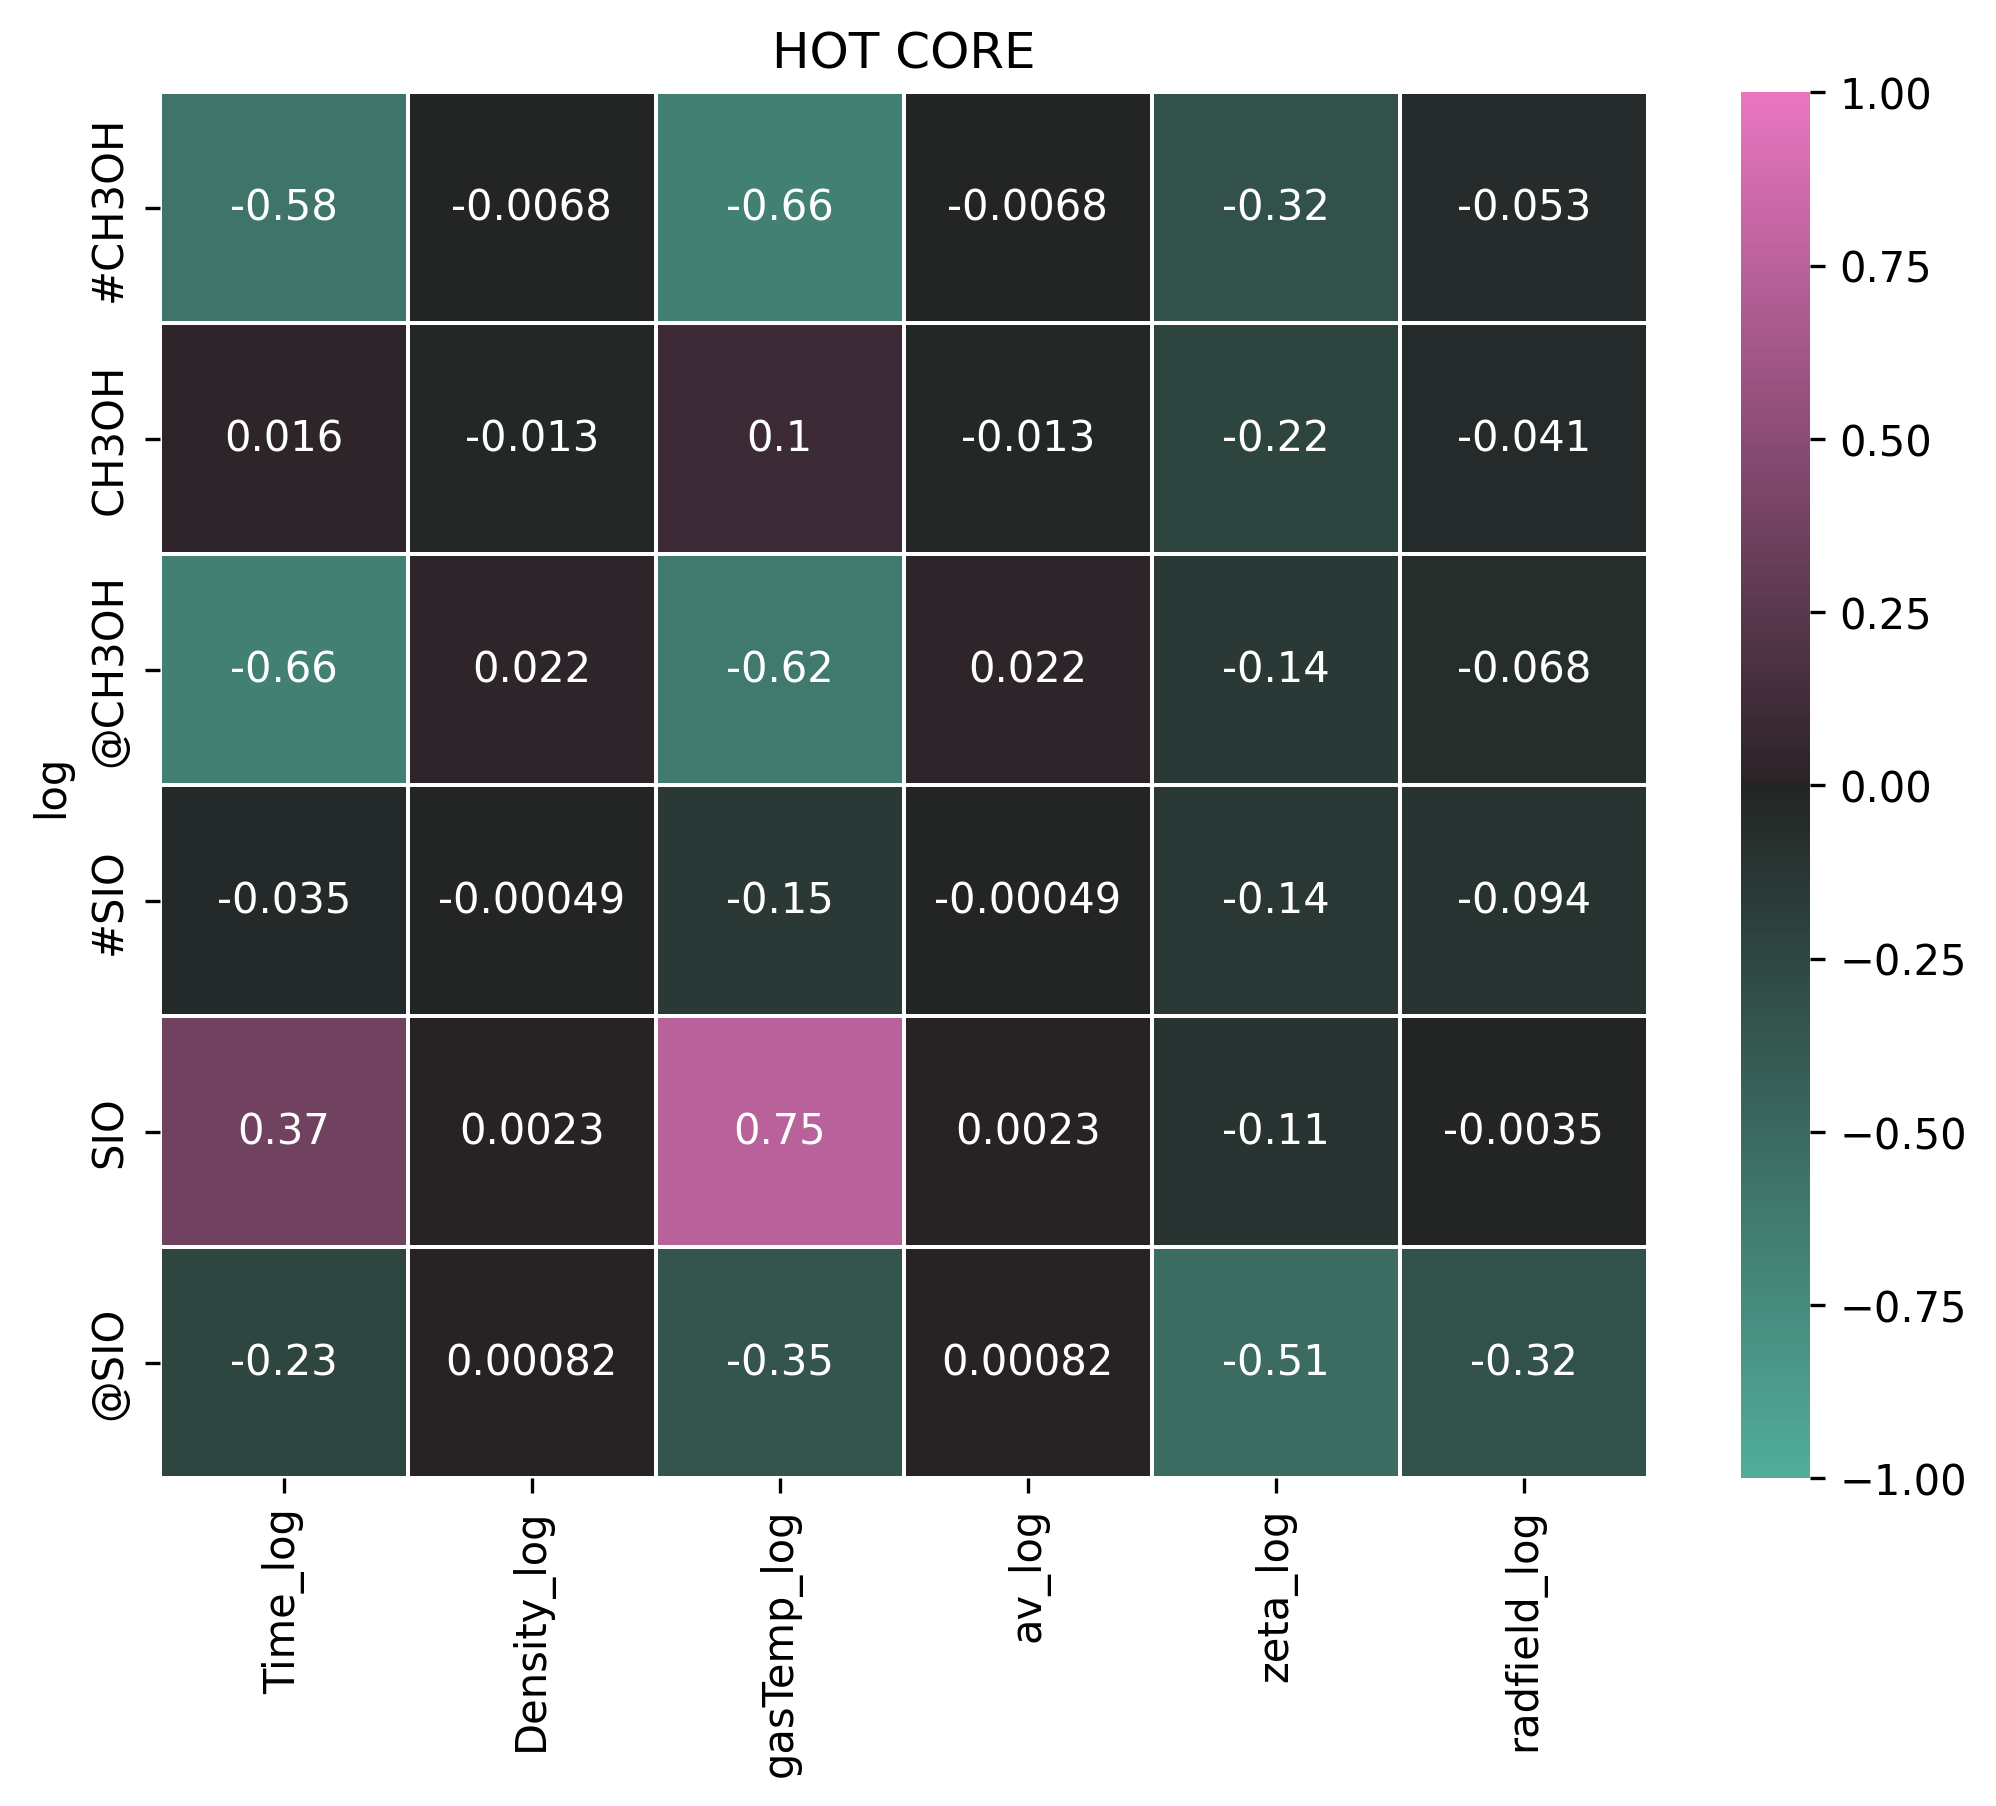
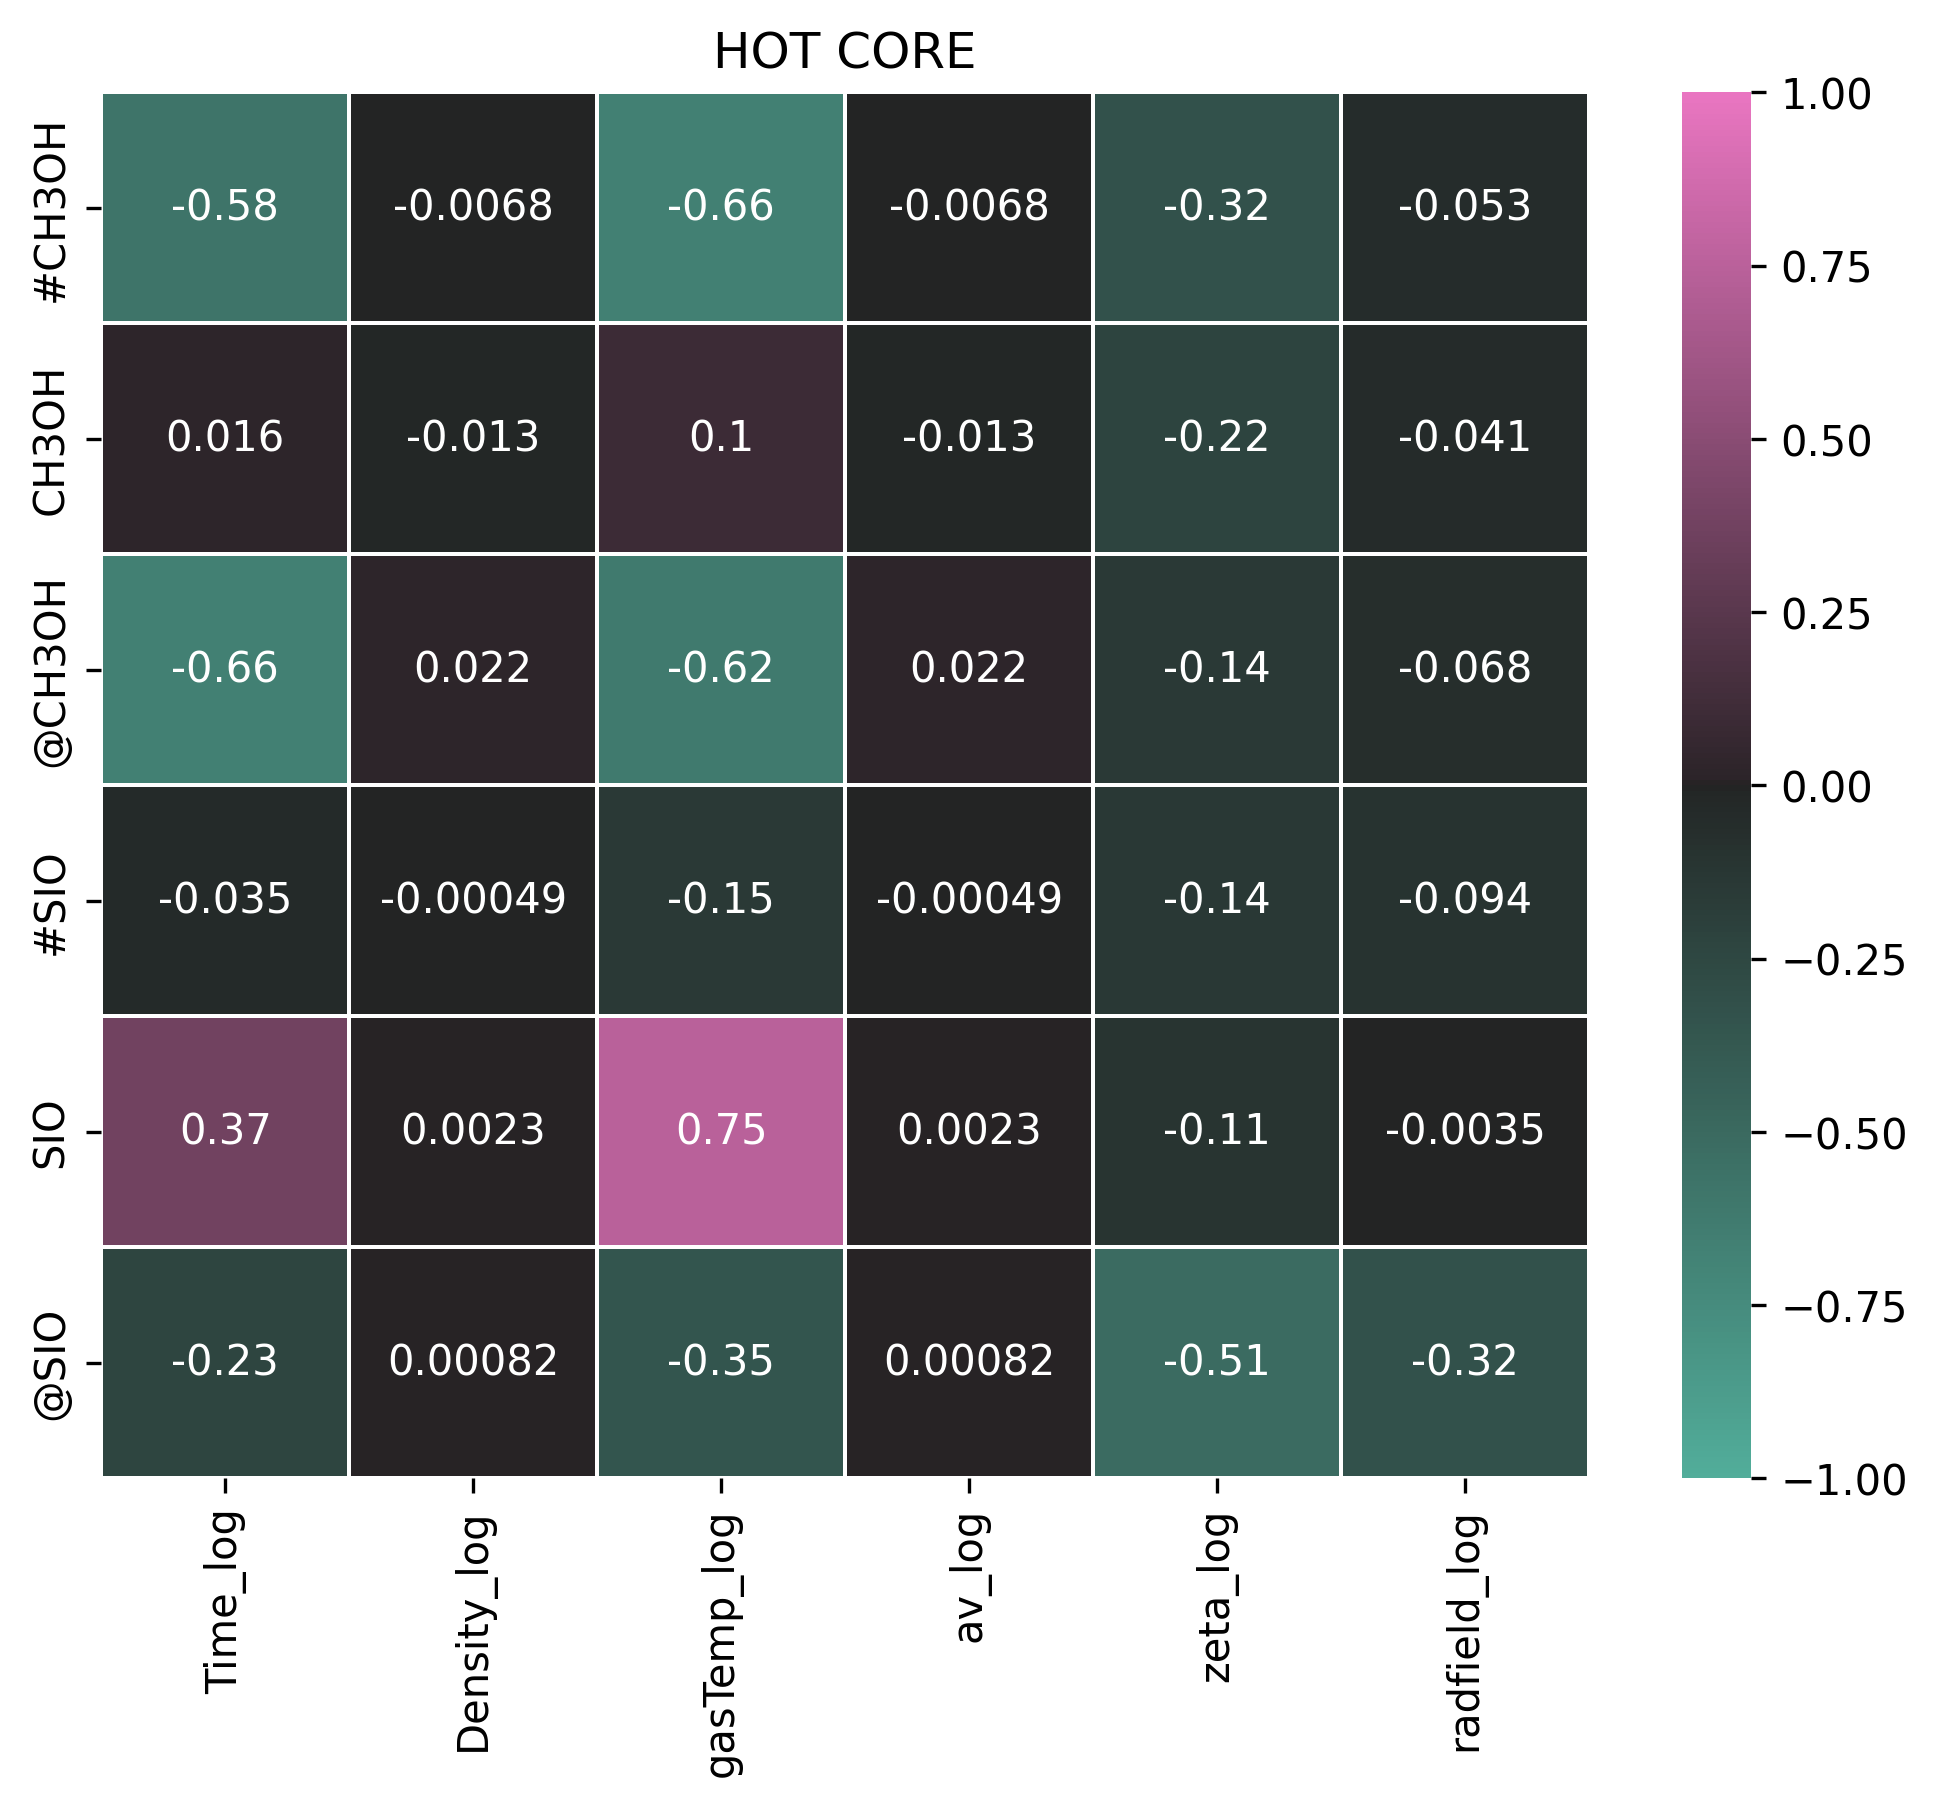
fix labels

diff --git a/Grid/ScatterPlot.py b/Grid/ScatterPlot.py
@@ -26,8 +26,6 @@ def corrGrid(df, xaxis, yaxis, tipo: str, logxscale=False, logyscale=False, barr
     fig = plt.figure(figsize=(8, 6))
     ax = sns.heatmap(cor, vmin=-1, vmax=1, annot=True, cmap=myCmap, linewidths=.5)
     ax.set_title(tipo.upper())
-    if logxscale: ax.set_xlabel('log')
-    if logyscale: ax.set_ylabel('log')
     return fig
 
 def scatterGrid(df, xaxis, yaxis, title, logxscale=False, logyscale=False):
@@ -53,7 +51,7 @@ logspecies= [f'{prop}_log' for prop in species]
 runs = {constants.SHOCK: '2024-07-01_124848', constants.HOTCORE: '2024-07-01_134429'}
 logscales = [[False, False], [True, False], [False, True], [True, True]]
 
-singleAxis= False
+singleAxis= True
 
 for tipo in runs:
     physical=['Time', 'Density', 'gasTemp', 'av', 'zeta', 'radfield']
